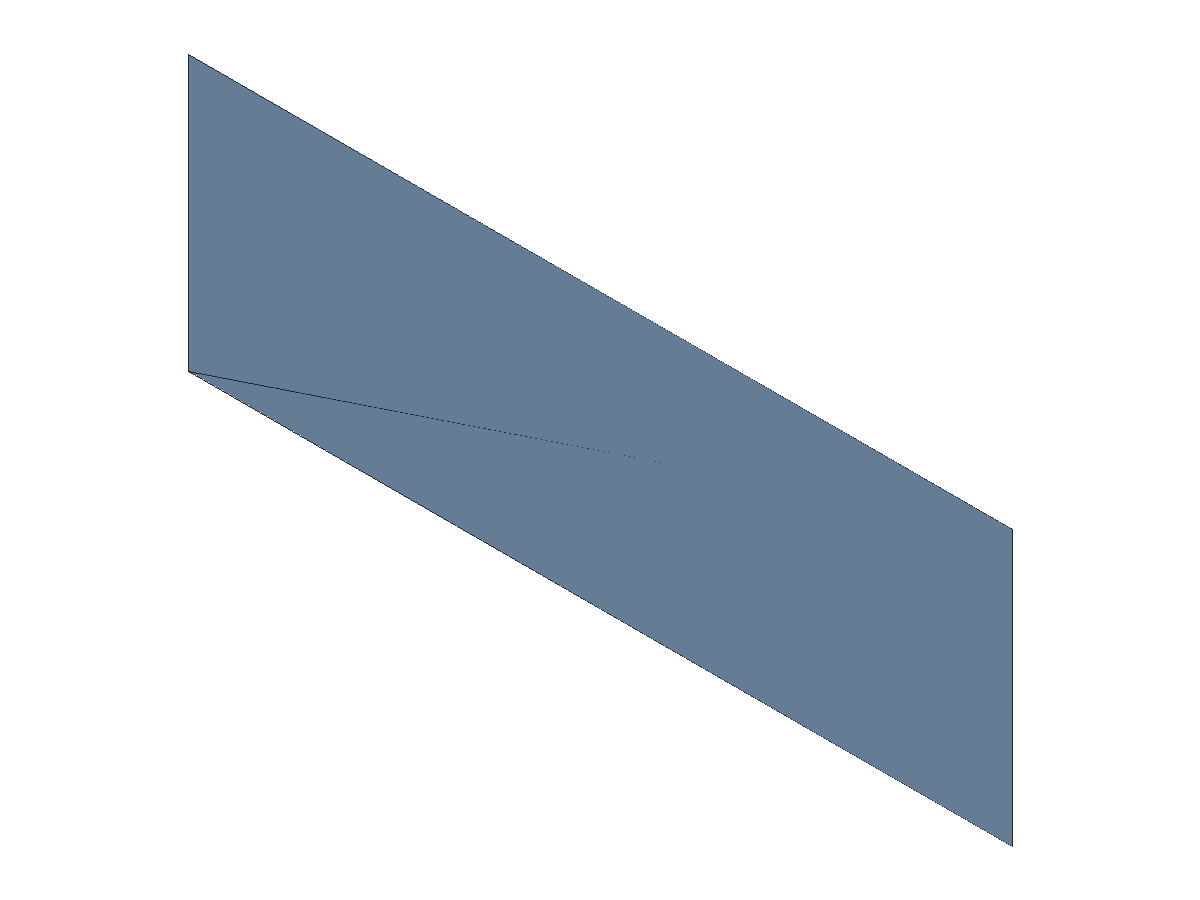
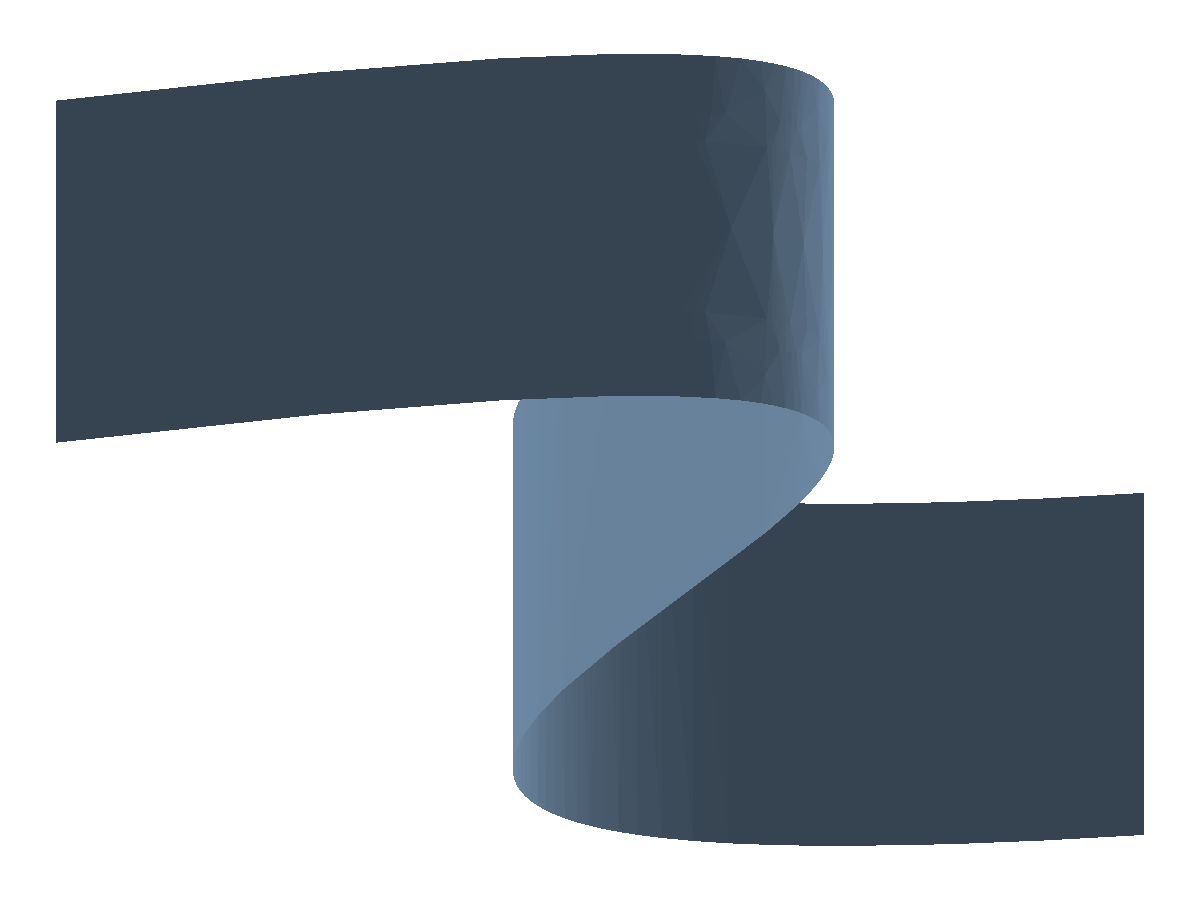
Improve extrude surface example

diff --git a/src/examples/dsl_feature_examples.ts b/src/examples/dsl_feature_examples.ts
@@ -46,6 +46,7 @@ import {
   selectorNamed,
   sketch2d,
   sketchLine,
+  sketchSpline,
   sketchProfileLoop,
   sketchRectCorner,
   surface,
@@ -208,23 +209,28 @@ export const dslFeatureExamples: DslFeatureExample[] = [
     id: "extrude-surface",
     title: "Extrude (Surface)",
     part: (() => {
-      const line = sketchLine("line-1", [0, 0], [30, 0]);
+      const spline = sketchSpline("spline-1", [
+        [-30, -12],
+        [-10, 18],
+        [8, -6],
+        [30, 16],
+      ]);
       const sketch = sketch2d(
         "sketch-extrude-surface",
         [
           {
             name: "profile:open",
-            profile: profileSketchLoop(["line-1"], { open: true }),
+            profile: profileSketchLoop(["spline-1"], { open: true }),
           },
         ],
-        { origin: [0, 0, 0], entities: [line] }
+        { origin: [0, 0, 0], entities: [spline] }
       );
       return part("example-extrude-surface", [
         sketch,
         extrude(
           "surface-extrude",
           profileRef("profile:open"),
-          10,
+          18,
           "surface:wall",
           undefined,
           { mode: "surface" }
@@ -232,12 +238,17 @@ export const dslFeatureExamples: DslFeatureExample[] = [
       ]);
     })(),
     render: {
+      renderOpts: {
+        viewDir: [1.55, -0.75, 0.85],
+        ambient: 1,
+        diffuse: 0,
+      },
       layers: [
         {
           output: "surface:wall",
           color: [154, 192, 230],
           alpha: 1,
-          wireframe: true,
+          wireframe: false,
           wireColor: [32, 40, 52],
           wireDepthTest: true,
           depthTest: true,

diff --git a/docs/public/examples/index.html b/docs/public/examples/index.html
@@ -1228,9 +1228,24 @@ const examplePart = part(&quot;example-surface&quot;, [
 
     <article class="code-entry" id="code-dsl-extrude-surface">
       <h3>Extrude (Surface) (DSL)</h3>
-      <p class="code-meta">docs/reference/dsl/examples/features.md -&gt; Extrude</p>
-      <pre><code>const examplePart = part(&quot;example-extrude&quot;, [
-  extrude(&quot;base&quot;, profileRect(80, 50), 12, &quot;body:main&quot;),
+      <p class="code-meta">docs/reference/dsl/examples/features.md -&gt; Extrude (Surface)</p>
+      <pre><code>const spline = sketchSpline(&quot;spline-1&quot;, [
+  [-30, -12],
+  [-10, 18],
+  [8, -6],
+  [30, 16],
+]);
+const sketch = sketch2d(
+  &quot;sketch-extrude-surface&quot;,
+  [{ name: &quot;profile:open&quot;, profile: profileSketchLoop([&quot;spline-1&quot;], { open: true }) }],
+  { entities: [spline] }
+);
+
+const examplePart = part(&quot;example-extrude-surface&quot;, [
+  sketch,
+  extrude(&quot;surface-extrude&quot;, profileRef(&quot;profile:open&quot;), 18, &quot;surface:wall&quot;, undefined, {
+    mode: &quot;surface&quot;,
+  }),
 ]);</code></pre>
       <a class="back-link" href="#top">Back to gallery</a>
     </article>

diff --git a/docs/reference/dsl/examples/features.md b/docs/reference/dsl/examples/features.md
@@ -17,6 +17,35 @@ Notes:
 - Default output is `body:*` (mode `solid`).
 - Use `extrude(..., { mode: "surface" })` to extrude a wire/profile into a surface output (`kind: "surface"`).
 
+## Extrude (Surface)
+
+![Extrude surface example](/examples/dsl/extrude-surface.iso.png)
+
+```ts
+const spline = sketchSpline("spline-1", [
+  [-30, -12],
+  [-10, 18],
+  [8, -6],
+  [30, 16],
+]);
+const sketch = sketch2d(
+  "sketch-extrude-surface",
+  [{ name: "profile:open", profile: profileSketchLoop(["spline-1"], { open: true }) }],
+  { entities: [spline] }
+);
+
+const examplePart = part("example-extrude-surface", [
+  sketch,
+  extrude("surface-extrude", profileRef("profile:open"), 18, "surface:wall", undefined, {
+    mode: "surface",
+  }),
+]);
+```
+
+Notes:
+- Open sketch profiles extrude into sheet bodies when `mode: "surface"` is selected.
+- Curved inputs such as splines preserve their curvature across the extrusion direction, producing a waved sheet instead of a flat wall.
+
 ## Surface
 
 ![Surface example](/examples/dsl/surface.iso.png)
